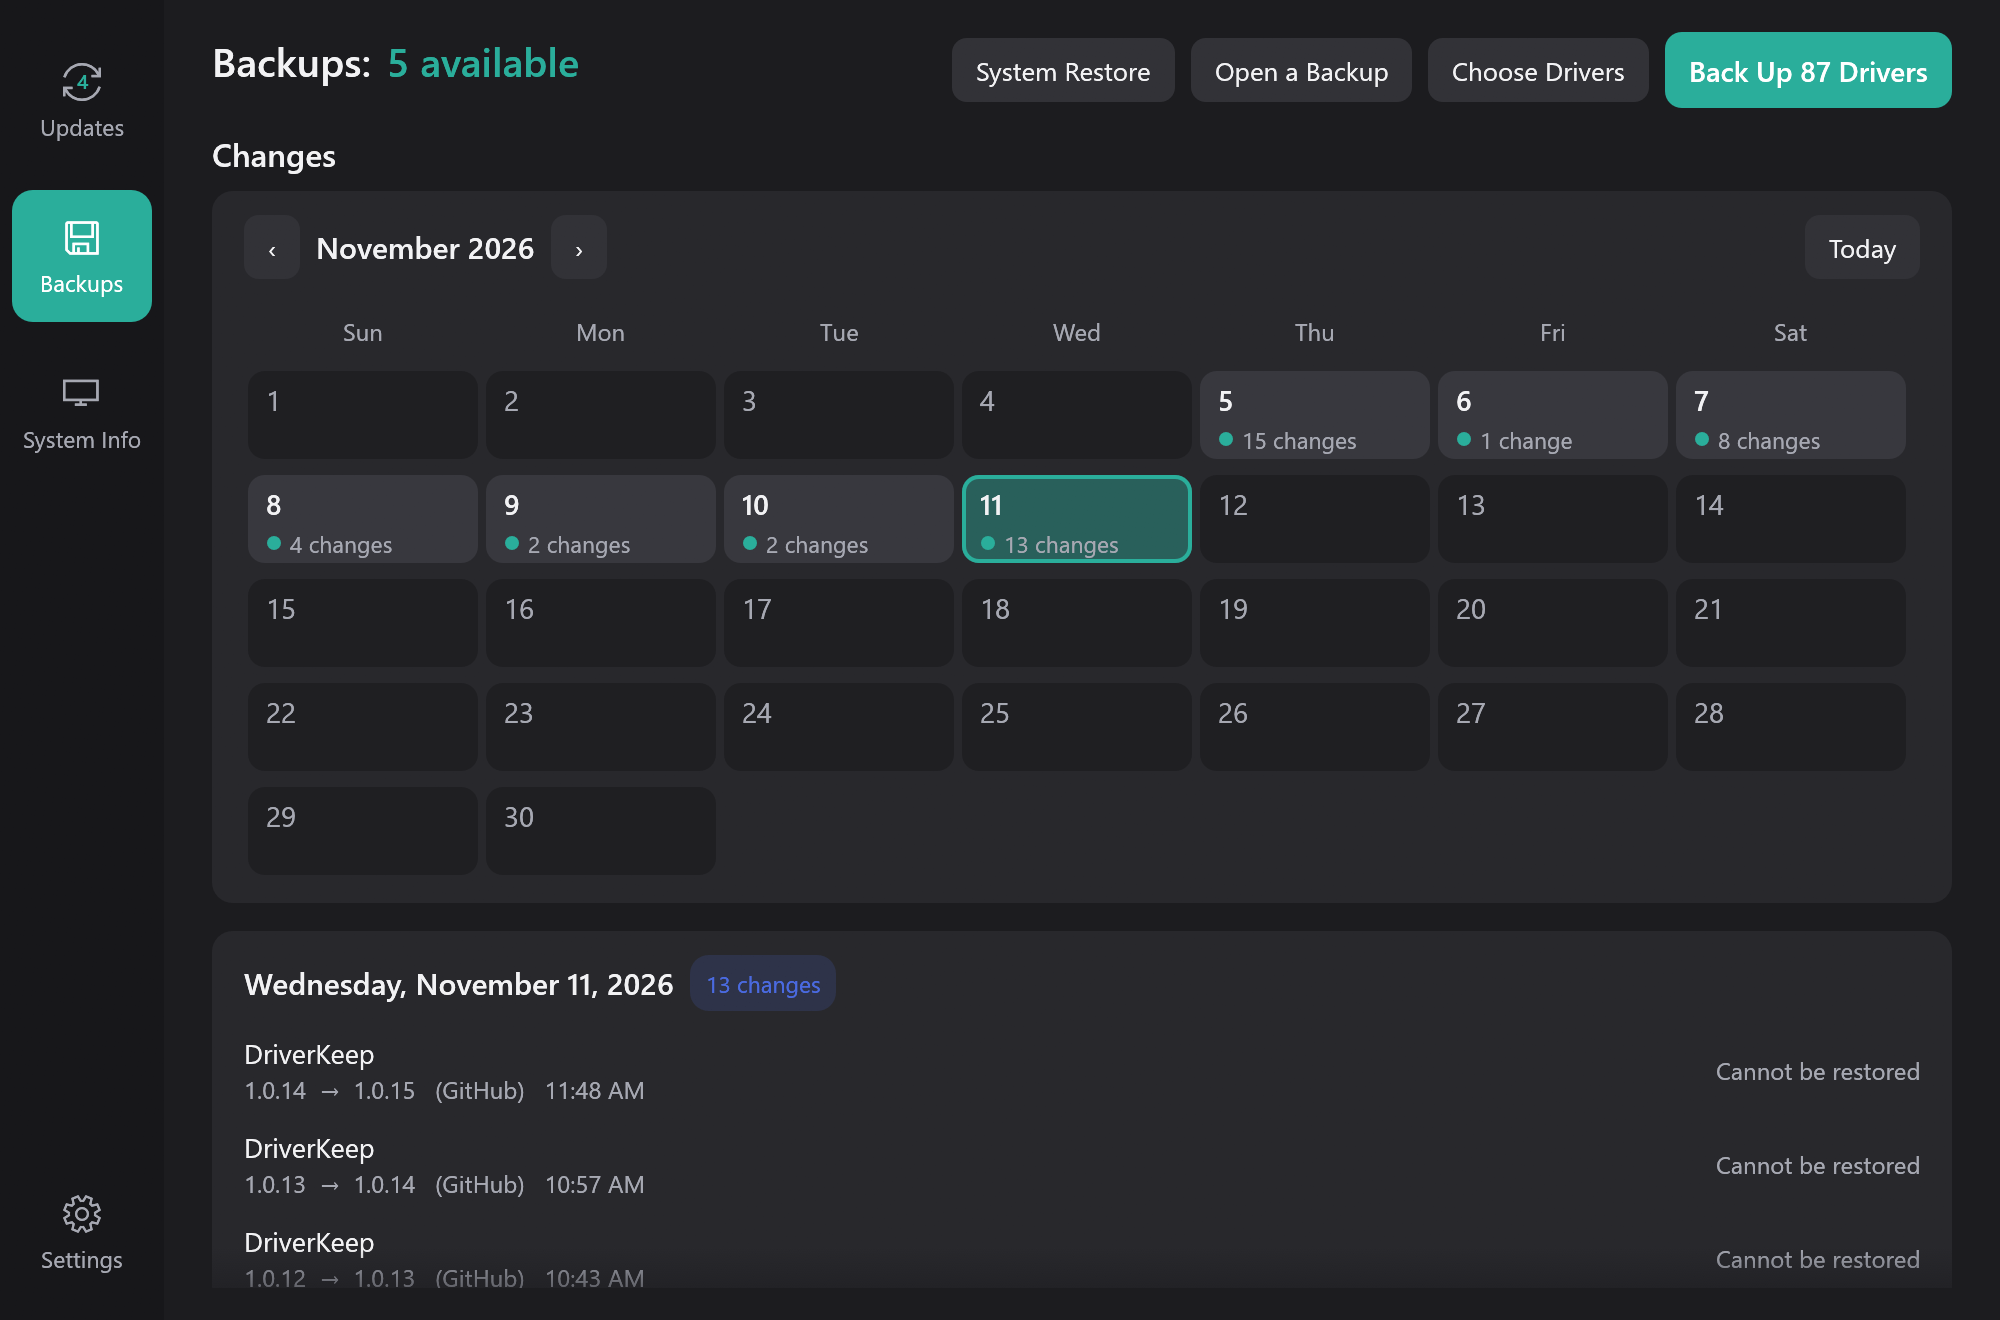
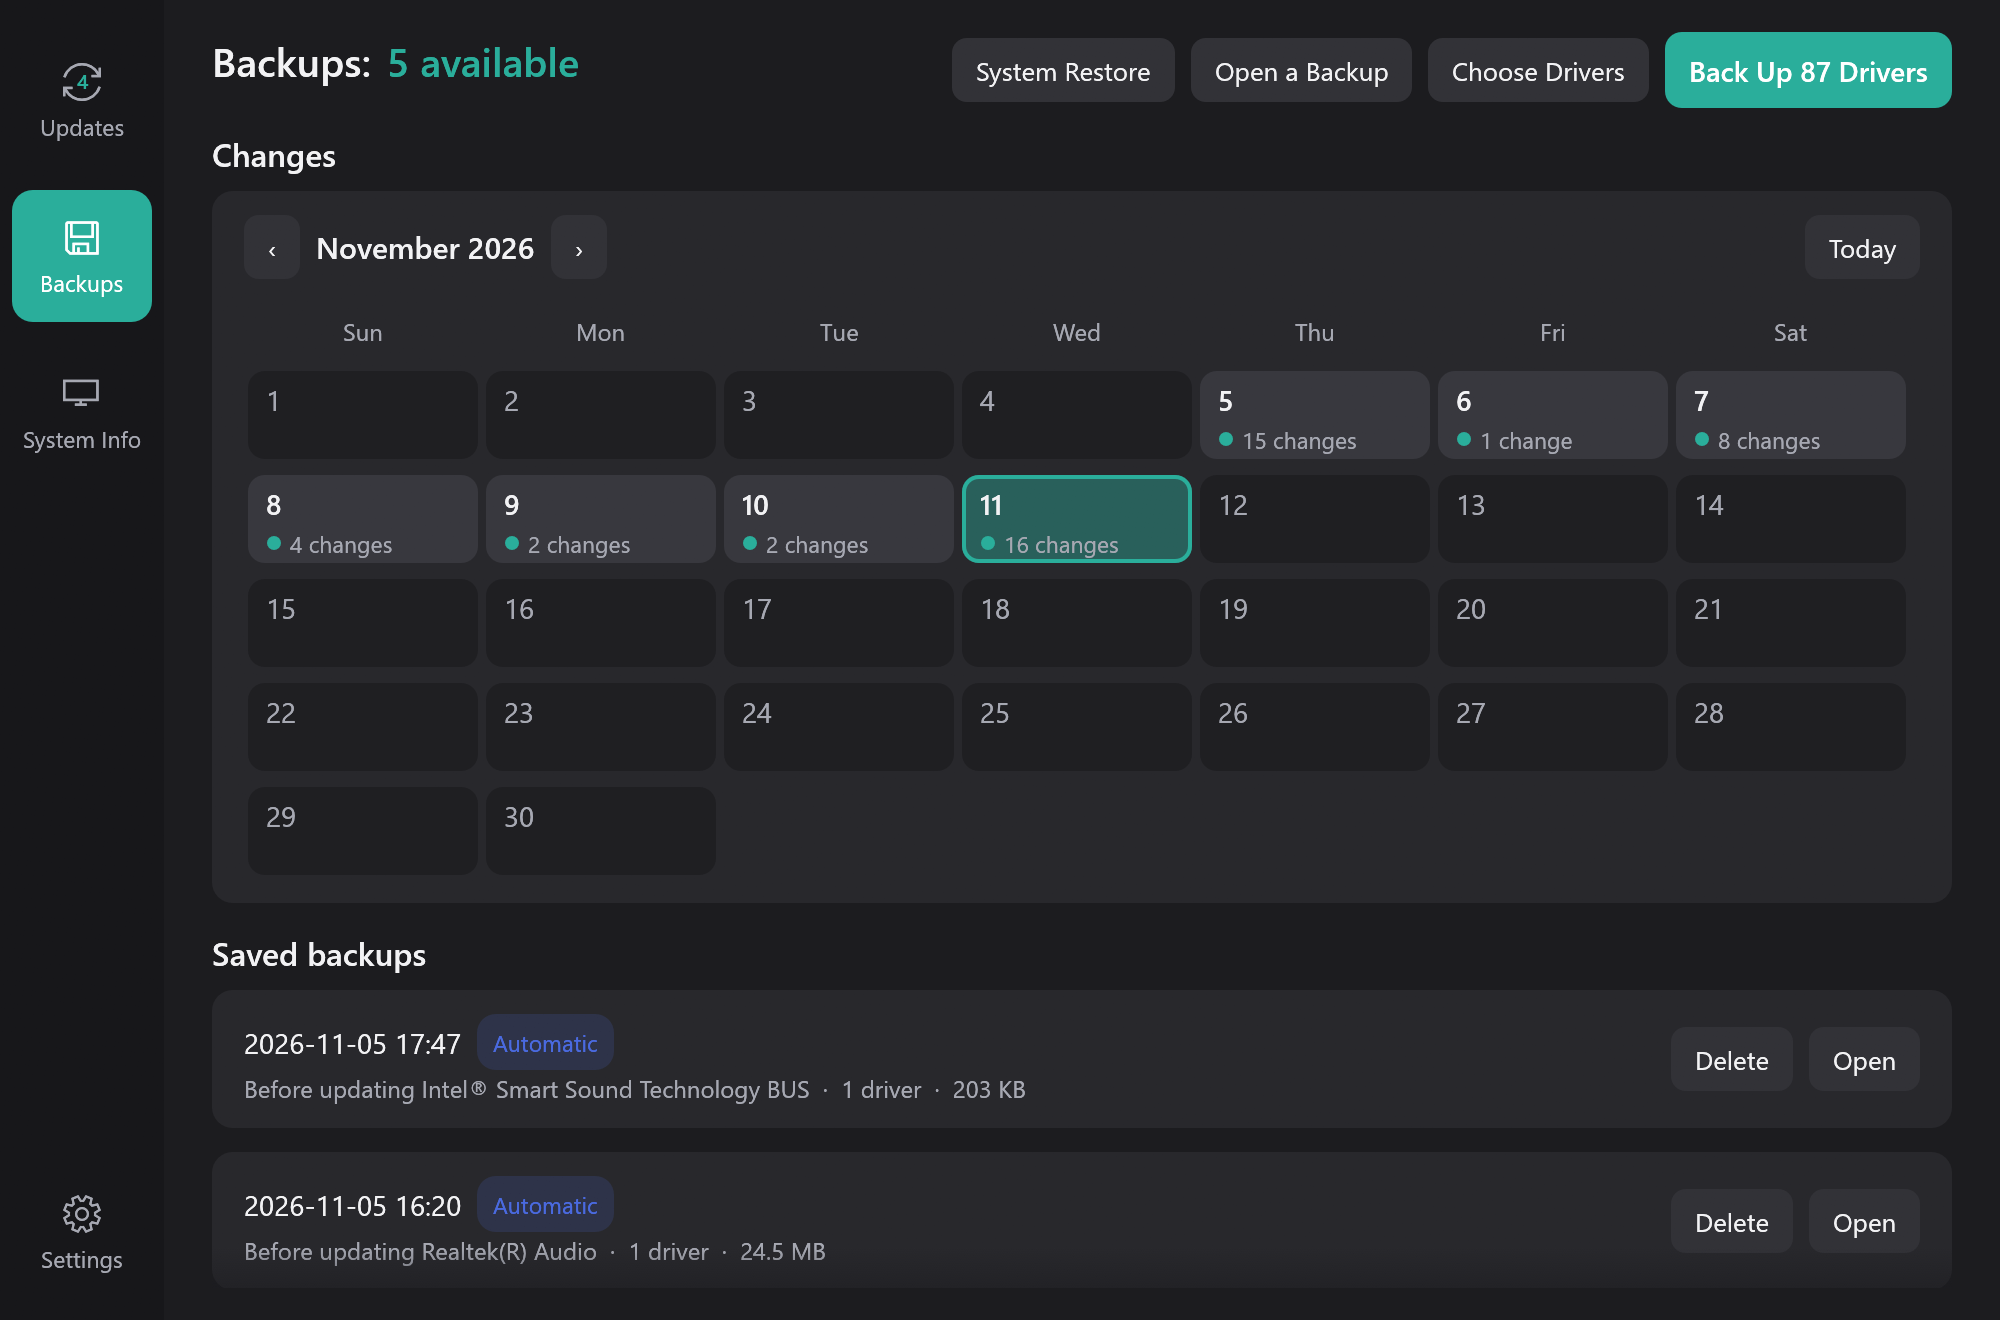
DriverKeep 1.0.19: no date card under the backups calendar

diff --git a/src/ui/backups_page.rs b/src/ui/backups_page.rs
@@ -266,23 +266,20 @@ impl App {
         let (can_restore, cannot): (Vec<Record>, Vec<Record>) =
             records.iter().cloned().partition(|r| r.backup.is_some());
         let mut undo = None;
-        card().show(ui, |ui| {
-            ui.set_width(ui.available_width());
-            ui.horizontal(|ui| {
-                ui.label(RichText::new(day.format("%A, %B %-d, %Y").to_string()).font(bold(15.0)));
-                if !records.is_empty() {
-                    pill(ui, &format!("{} change{}", records.len(), plural(records.len())), BLUE);
+        // The day is already picked in the calendar, and its change count is on the calendar too, so
+        // this card holds only the changes themselves. It's left out when there's nothing for it.
+        if records.is_empty() {
+            soft(ui, "Nothing was changed on this day.");
+            ui.add_space(8.0);
+        } else if !can_restore.is_empty() {
+            card().show(ui, |ui| {
+                ui.set_width(ui.available_width());
+                for record in &can_restore {
+                    self.change_row(ui, record, &mut undo);
                 }
             });
-            if records.is_empty() {
-                ui.add_space(4.0);
-                ui.label(small("Nothing was changed on this day."));
-            }
-            for record in &can_restore {
-                self.change_row(ui, record, &mut undo);
-            }
-        });
-        ui.add_space(10.0);
+            ui.add_space(10.0);
+        }
         if let Some((path, id)) = undo {
             match backup::read_info(&path) {
                 Ok(info) => {
